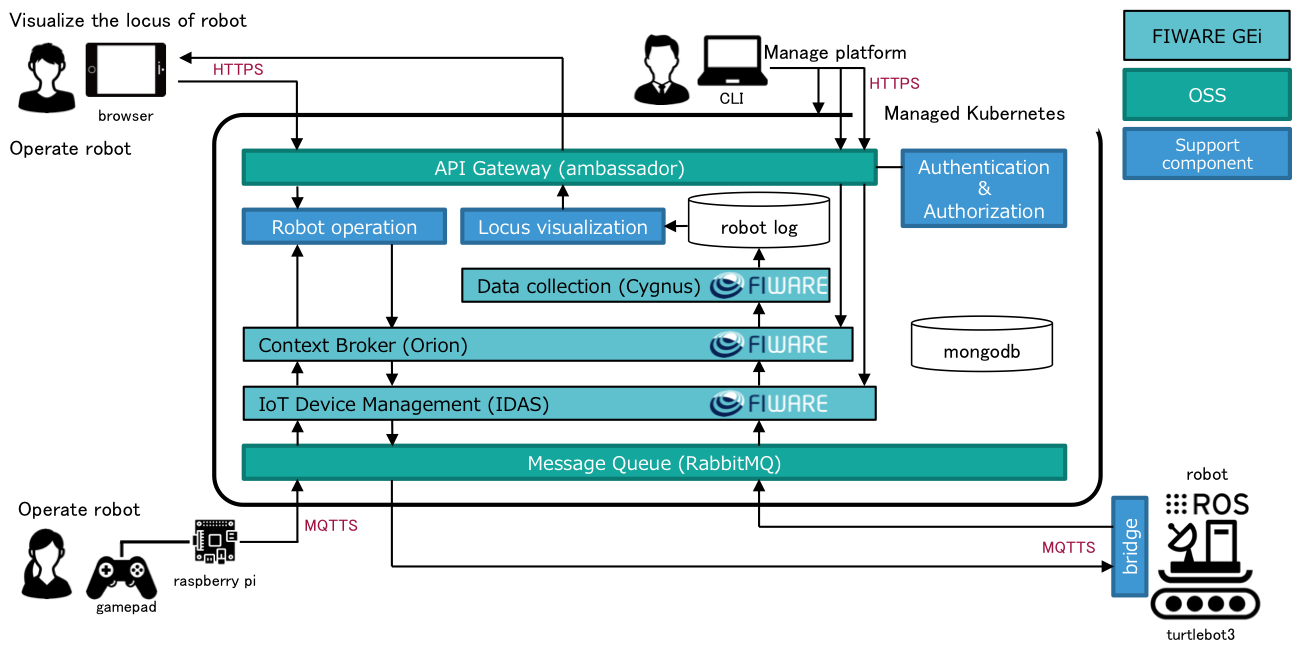
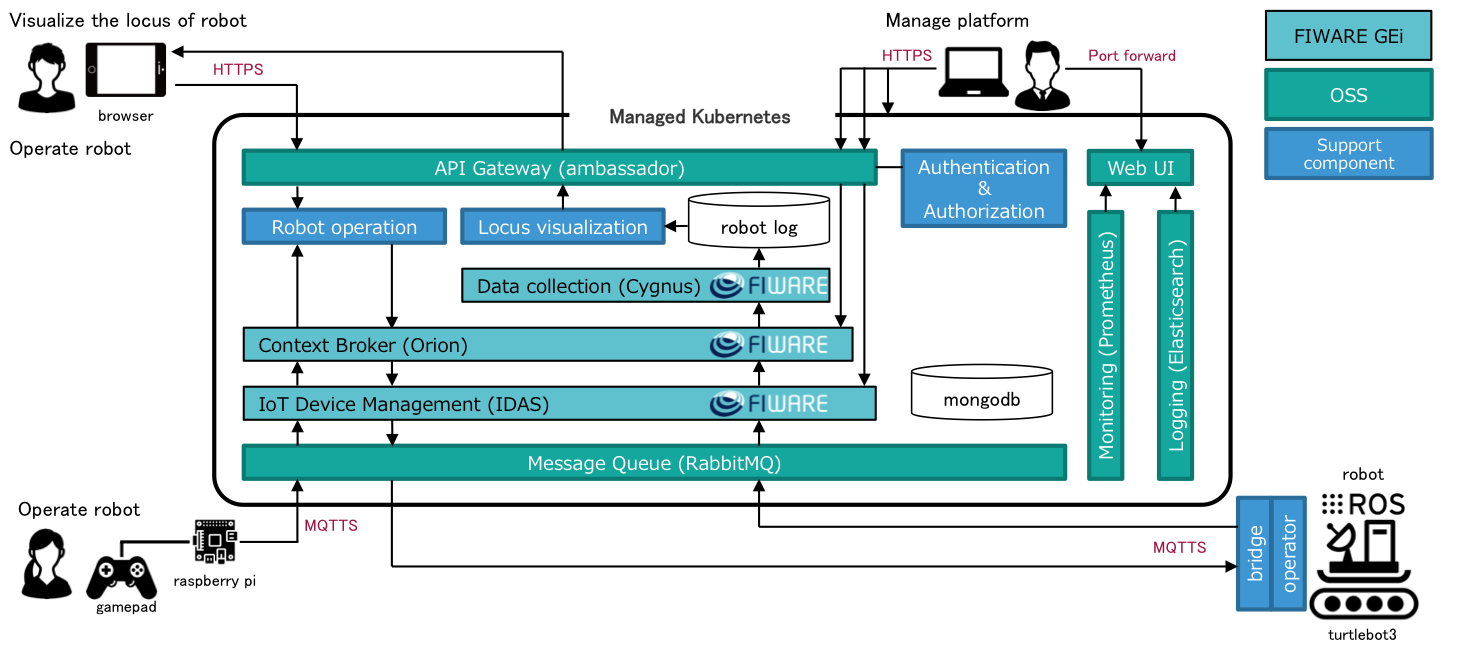
edit README

diff --git a/README.md b/README.md
@@ -15,12 +15,15 @@ This repository construct a container-centric [FIWARE](http://www.fiware.org/) d
 |[FIWARE iotagent-ul](https://catalogue-server.fiware.org/enablers/backend-device-management-idas)|Backend Device Management Agent|
 |[RabbitMQ](https://www.rabbitmq.com/)|Distributed Message Queue|
 |[MongoDB](https://www.mongodb.com/)|Document-oriented NoSQL Database|
+|[Prometheus](https://prometheus.io/)|Monitoring and Alerting toolkit|
+|[Grafana](https://grafana.com/)|Analytics and Alerting platform for time series metrics|
+|[Elasticsearch](https://www.elastic.co/products/elasticsearch)|Distributed search and analytics engine|
+|[fluentd](https://www.fluentd.org/)|Data collector for unified logging layer|
+|[Kibana](https://www.elastic.co/products/kibana)|Visualize the Elasticsearch data|
 
 |device|summary|
 |:--|:--|
 |fiware-gamepad-controller|Gamepad Controller|
-|
-
 |fiware-ros-bridge|ROS package to act as a bridge FIWARE orion and ROS|
 |fiware-ros-operator|ROS package to control turtlebot3 (simulator and physical robot)|
 
@@ -31,25 +34,28 @@ This repository construct a container-centric [FIWARE](http://www.fiware.org/) d
 ||version|
 |:--|:--|
 |OS|macOS Sierra 10.12.6|
-|azure cli|2.0.44|
+|azure cli|2.0.45|
 |kubectl|1.11.2|
 |helm|2.10.0|
 |envsubst|0.19.8.1|
 
-* minikube host PC
+* minikube
+    * when you use monitoring & logging, you have to give **4 cpu & 8192 MB memories** to minikube.
 
 ||version|
 |:--|:--|
 |OS|macOS Sierra 10.12.6|
 |VirtualBox|5.2.12 r122591|
 |minikube|0.28.2|
+|kubernetes|1.10.0|
 
-* Kubernetes
+* Azure AKS
+    * when you use monitoring & logging, you have to use the vm series which supports `Premium Storage` such as `Dsv3-series`.
 
 ||version|
 |:--|:--|
-|Azure AKS|1.10.3|
-|minikube|1.10.0|
+|region|japaneast|
+|kubernetes|1.11.2|
 
 ## getting started
 
@@ -74,11 +80,12 @@ This repository construct a container-centric [FIWARE](http://www.fiware.org/) d
     $ vi env
     ```
 1. prepare Microsoft Azure AKS step by step using [/docs/azure_aks/1_prepare_aks.ipynb](/docs/azure_aks/1_prepare_aks.ipynb).
-1. start pods on Kubernetes step by step using [/docs/azure_aks/2_start_pods.ipynb](/docs/azure_aks/2_start_pods.ipynb).
+1. start pods on Azure AKS step by step using [/docs/azure_aks/2_start_pods.ipynb](/docs/azure_aks/2_start_pods.ipynb).
 1. register iot device & robot to fiware step by step using [/docs/azure_aks/3_register_device.ipynb](/docs/azure_aks/3_register_device.ipynb).
 1. register business logic to fiware step by step using [/docs/azure_aks/4_register_business_logic.ipynb](/docs/azure_aks/4_register_business_logic.ipynb).
-1. operate turtlebot3 step by step using [/docs/azure_aks/5_operate_turtlebot3.ipynb](/docs/azure_aks/5_operate_turtlebot3.ipynb).
-1. visualize the data of turtlebot3 step by step using [/docs/azure_aks/6_visualize_data.ipynb](/docs/azure_aks/6_visualize_data.ipynb).
+1. start monitoring and logging on Azure AKS step by step uging [/doss/azure_aks/5_start_monitoring_and_logging.ipynb](/docs/azure_aks/5_start_monitoring_and_logging.ipynb).
+1. operate turtlebot3 step by step using [/docs/azure_aks/6_operate_turtlebot3.ipynb](/docs/azure_aks/6_operate_turtlebot3.ipynb).
+1. visualize the data of turtlebot3 step by step using [/docs/azure_aks/7_visualize_data.ipynb](/docs/azure_aks/7_visualize_data.ipynb).
 
 ### minikube
 
@@ -89,11 +96,12 @@ This repository construct a container-centric [FIWARE](http://www.fiware.org/) d
     $ vi env
     ```
 1. prepare minikube step by step using [/docs/minikube/1_prepare_minikube.ipynb](/docs/minikube/1_prepare_minikube.ipynb).
-1. start pods on Kubernetes step by step using [/docs/minikube/2_start_pods.ipynb](/docs/minikube/2_start_pods.ipynb).
+1. start pods on minikube step by step using [/docs/minikube/2_start_pods.ipynb](/docs/minikube/2_start_pods.ipynb).
 1. register iot device & robot to fiware step by step using [/docs/minikube/3_register_device.ipynb](/docs/minikube/3_register_device.ipynb).
 1. register business logic to fiware step by step using [/docs/minikube/4_register_business_logic.ipynb](/docs/minikube/4_register_business_logic.ipynb).
-1. operate turtlebot3 step by step using [/docs/minikube/5_operate_turtlebot3.ipynb](/docs/minikube/5_operate_turtlebot3.ipynb).
-1. visualize the data of turtlebot3 step by step using [/docs/minikube/6_visualize_data.ipynb](/docs/minikube/6_visualize_data.ipynb).
+1. start monitoring and logging on minikube step by step uging [/doss/minikube/5_start_monitoring_and_logging.ipynb](/docs/minikube/5_start_monitoring_and_logging.ipynb).
+1. operate turtlebot3 step by step using [/docs/minikube/6_operate_turtlebot3.ipynb](/docs/minikube/6_operate_turtlebot3.ipynb).
+1. visualize the data of turtlebot3 step by step using [/docs/minikube/7_visualize_data.ipynb](/docs/minikube/7_visualize_data.ipynb).
 
 ## Related Repositories
 ### FIWARE components
